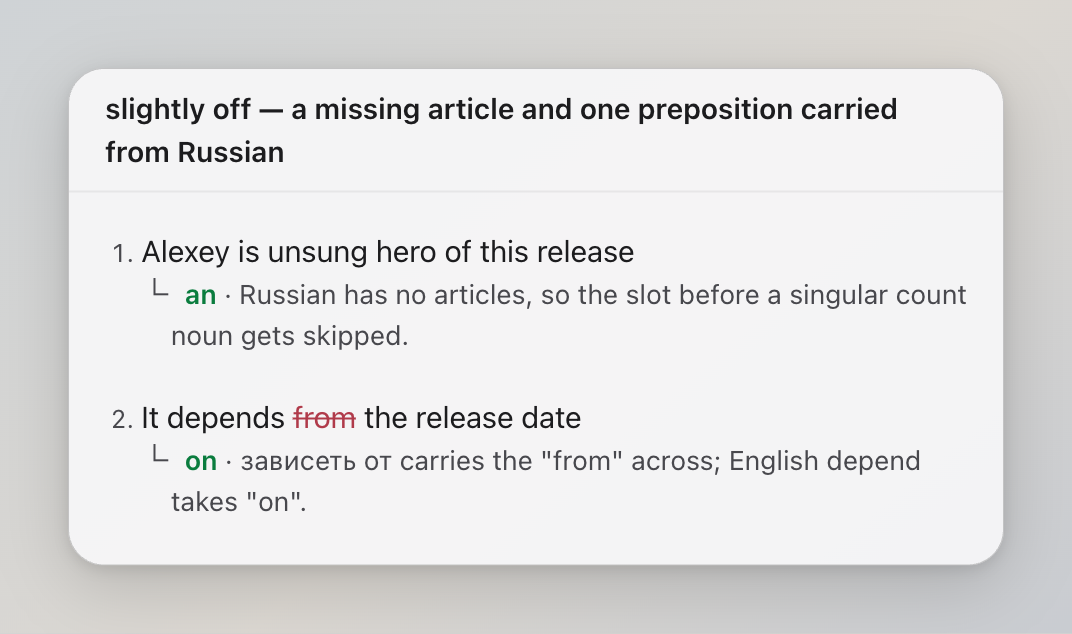
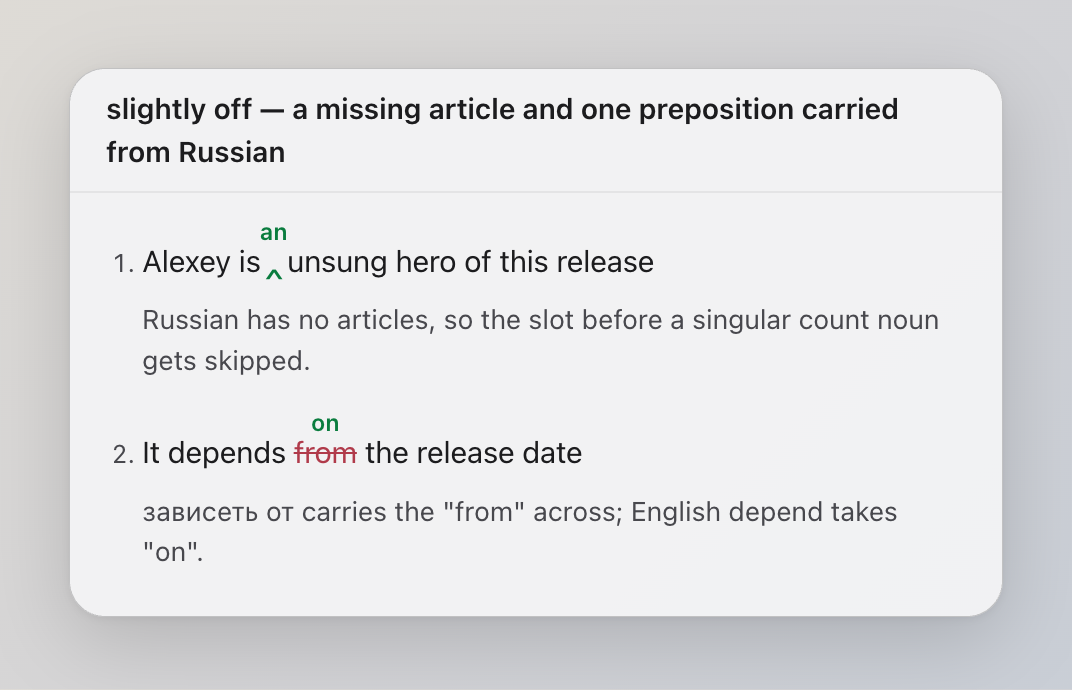
Retake the screenshot with the fix above the line

diff --git a/README.md b/README.md
@@ -9,7 +9,7 @@
 </p>
 
 <p align="center">
-  <img src="docs/screenshot.png" width="536" alt="Redpen's card: two notes, one missing article and one preposition calque, each with the fix hanging off an elbow">
+  <img src="docs/screenshot.png" width="536" alt="Redpen's card: two notes, one missing article and one preposition calque, each fix written in green above the line">
 </p>
 
 Select text anywhere, press <kbd>⌥⌘E</kbd>, and a small card tells you what sounds off and
